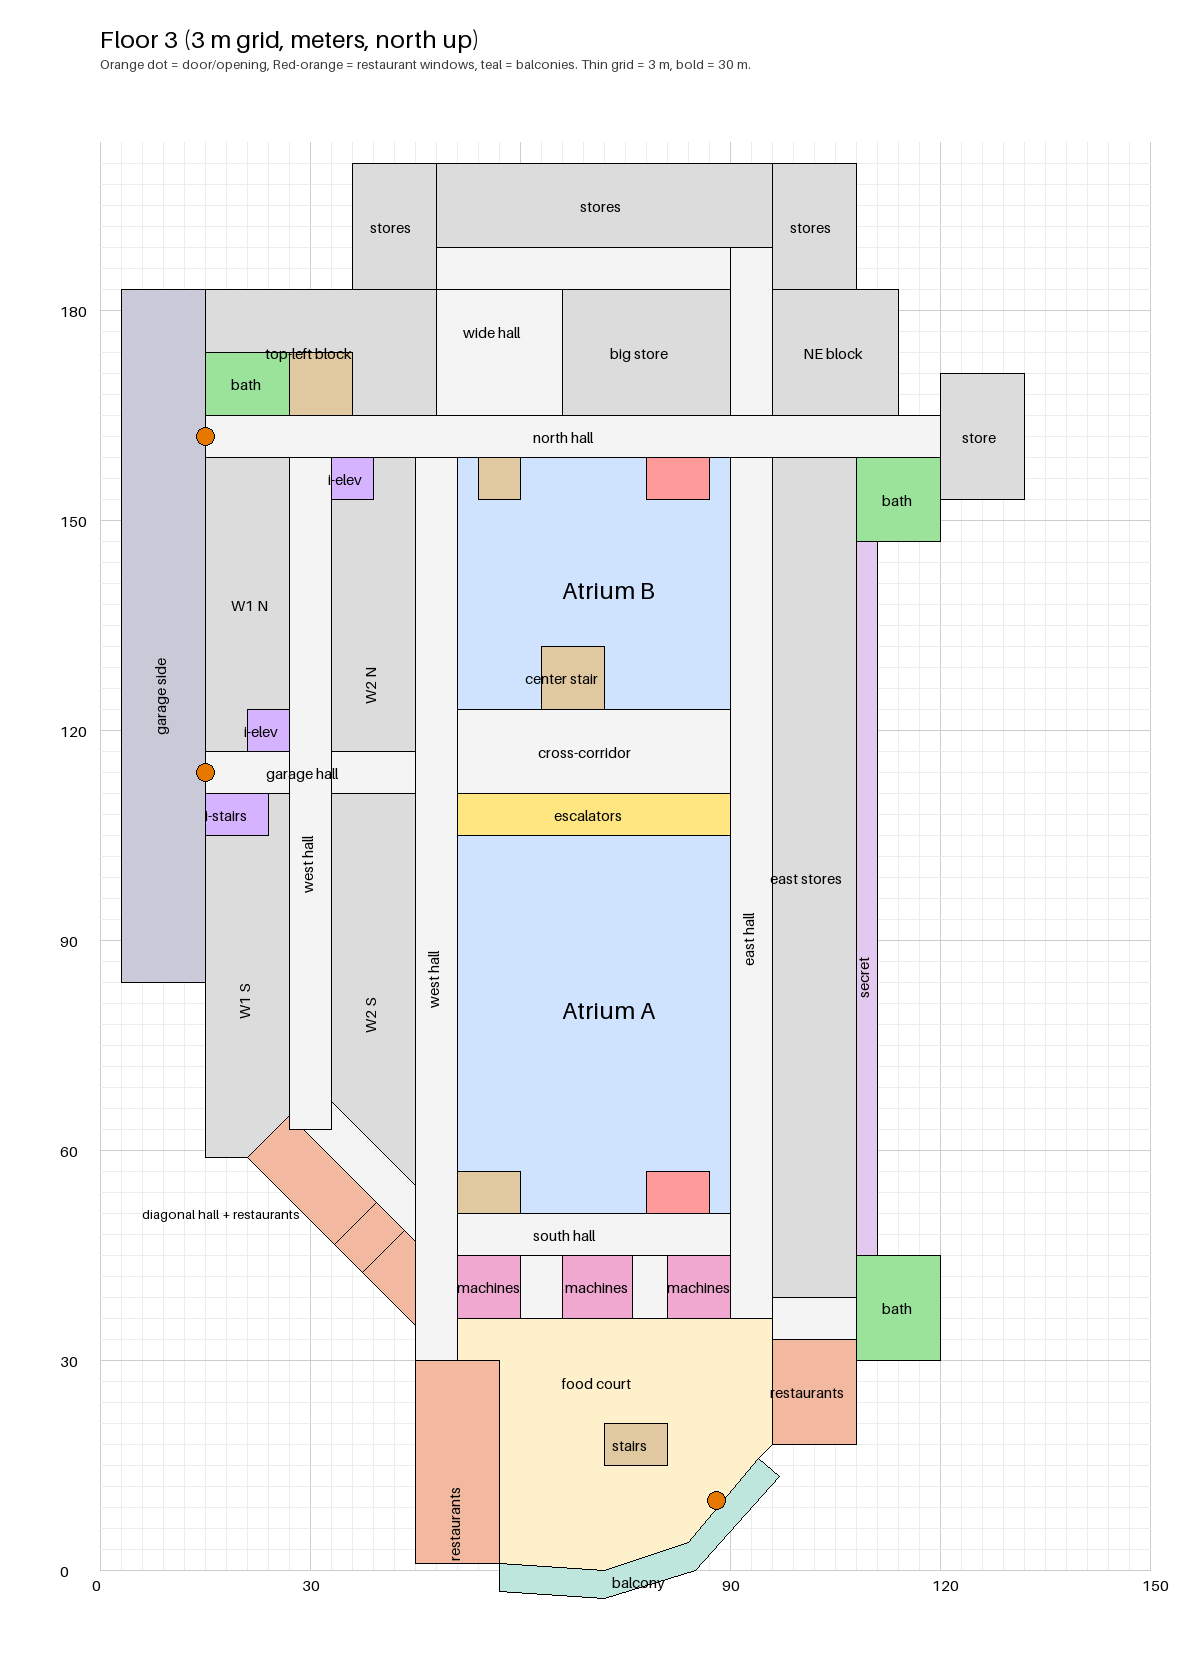
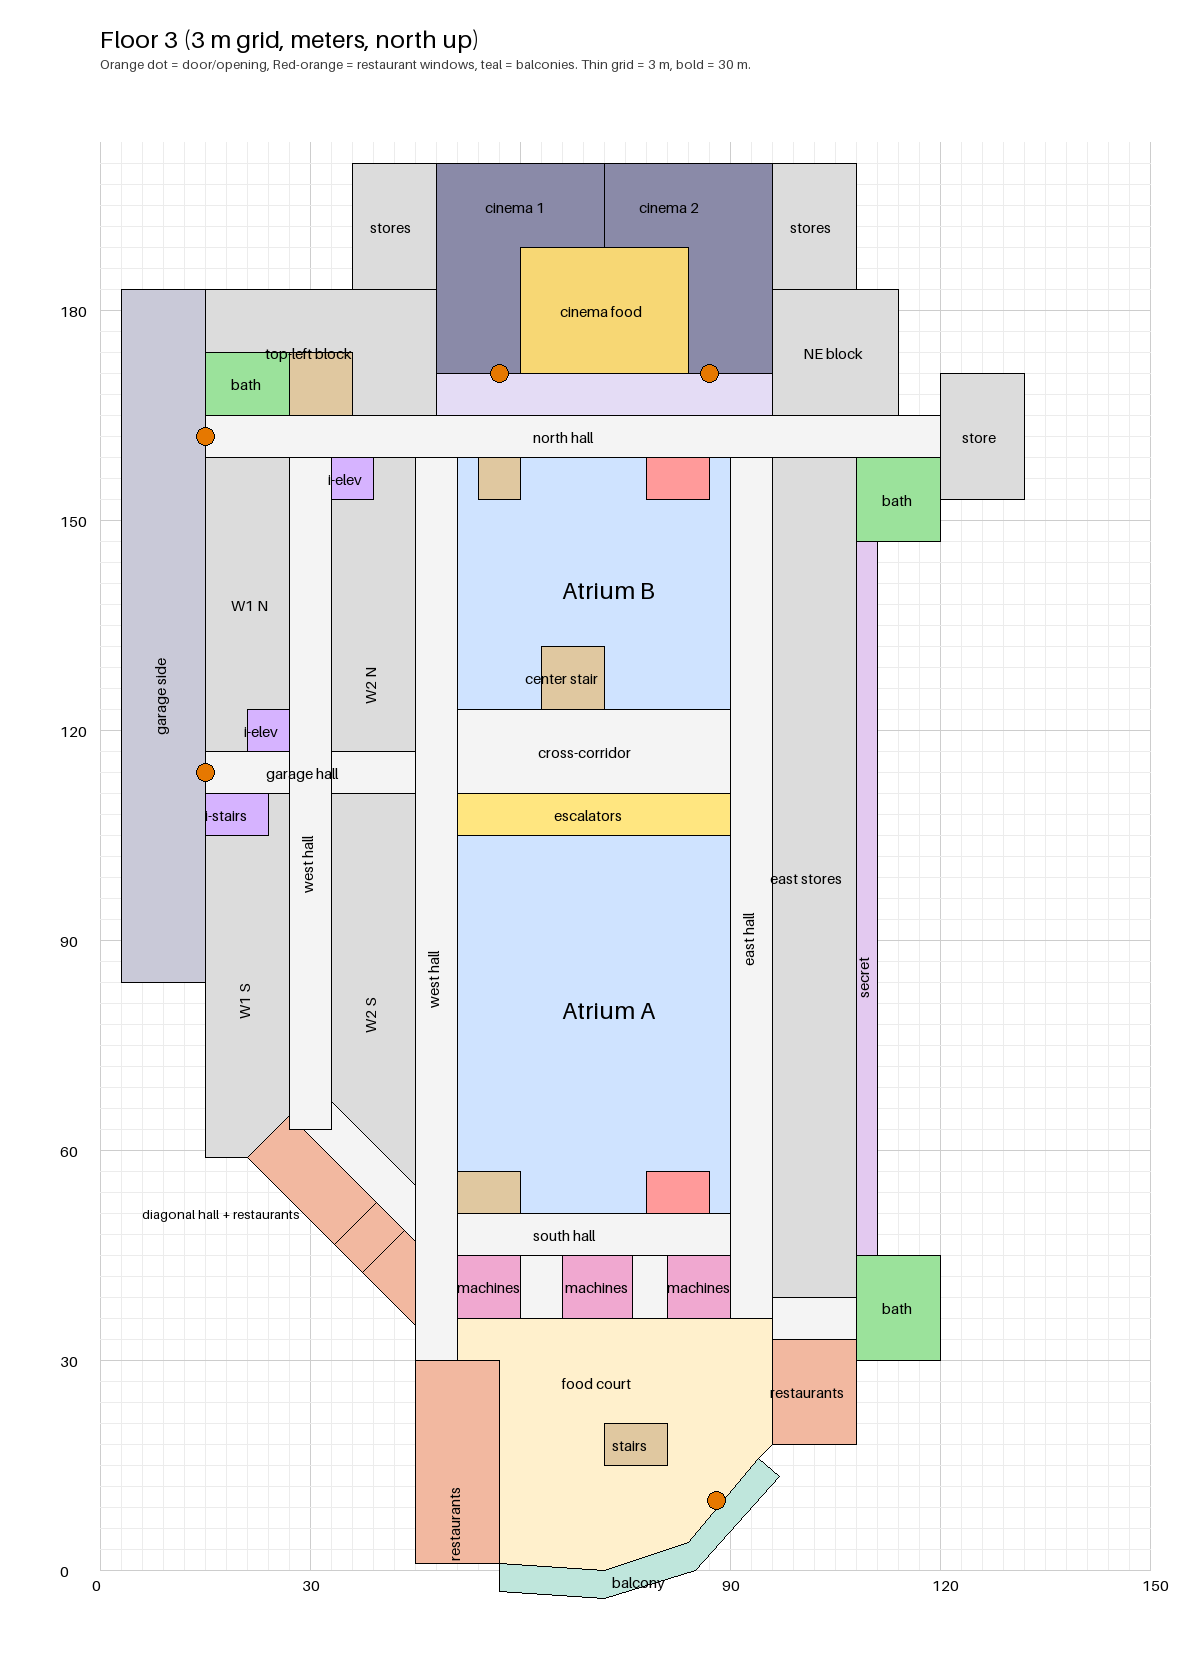
cinemas add in

Changed region(s): [[0.3392, 0.0929, 0.6475, 0.2476]]

diff --git a/docs/floorplans/build_floorplans.py b/docs/floorplans/build_floorplans.py
@@ -117,8 +117,8 @@ BALCONIES = [
 
 COLORS = {"void": "#cfe3ff", "hall": "#f4f4f4", "elevator": "#ff9a9a", "stairs": "#e0c8a0",
           "escalator": "#ffe680", "shop": "#dcdcdc", "bath": "#9be29b", "garage": "#c9c9d8",
-          "secret": "#e3c9f0", "intermittent": "#d6b3ff", "kiosk": "#f7d774", "machines": "#f0a8d0", "foodcourt": "#fff0cc", "restaurant": "#f2b8a0", "balcony": "#bfe6dc"}
-WALKABLE = {"void", "hall", "bath", "garage", "secret", "foodcourt", "balcony"}
+          "secret": "#e3c9f0", "intermittent": "#d6b3ff", "cinema_lobby": "#e4dcf5", "cinema": "#8a8aa8", "kiosk": "#f7d774", "machines": "#f0a8d0", "foodcourt": "#fff0cc", "restaurant": "#f2b8a0", "balcony": "#bfe6dc"}
+WALKABLE = {"cinema_lobby", "void", "hall", "bath", "garage", "secret", "foodcourt", "balcony"}
 
 
 def north_floor2(items):
@@ -147,6 +147,18 @@ def north_floor2(items):
     return out
 
 
+def north_cinema(items):
+    """Floors 3 and 4, north part (east of the top-left block up to the NE block): a cinema food station in the
+    middle with two wide cinemas on its sides, which also run behind it."""
+    drop = {"n_hall_up", "big_store", "n_hall_behind", "north_stores", "n_hall_down"}
+    out = [it for it in items if it[0] not in drop]
+    out.append(("cinema_lobby", "Cinema concourse (in front of the stores, the food station and the cinema entrances)", ("box", (48, 96, 165, 171)), "cinema_lobby"))
+    out.append(("cinema_food", "Cinema food stand (middle, wide counter faces the concourse)", ("box", (60, 84, 171, 189)), "kiosk"))
+    out.append(("cinema_1", "Cinema 1 (west of the food stand, and behind it)", ("poly", [(48, 171), (60, 171), (60, 189), (72, 189), (72, 201), (48, 201)]), "cinema"))
+    out.append(("cinema_2", "Cinema 2 (east of the food stand, and behind it)", ("poly", [(96, 171), (84, 171), (84, 189), (72, 189), (72, 201), (96, 201)]), "cinema"))
+    return out
+
+
 def floor_items(floor):
     """Boxes and polygons for one floor, as (id, label, shape, kind) with shape ('box', ...) or ('poly', ...)."""
     items = []
@@ -166,6 +178,8 @@ def floor_items(floor):
         items.append((i, l, ("box", (a, b, c, d)), k))
     if floor == 2:
         items = north_floor2(items)
+    if floor >= 3:
+        items = north_cinema(items)
     for i, l, p, k in POLYS:
         if i == "south_area" and floor > 1:
             l, k = "Food court (seating)", "foodcourt"
@@ -236,7 +250,7 @@ LABELS = {"atrium_b": "Atrium B", "atrium_a": "Atrium A", "cross_corridor": "cro
           "a_escalators": "escalators", "n_hall_up": "wide hall", "east_stores": "east stores", "ne_end_store": "store",
           "south_hall": "south hall", "south_shop_1": "shop", "south_shop_2": "shop", "south_shop_3": "shop",
           "east_hall": "east hall", "west_hall_inner": "west hall", "west_hall_outer": "west hall",
-          "hall_ew_garage": "garage hall", "int_elevator_w2n": "i-elev", "int_elevator_w1n": "i-elev", "int_stairs_w1s": "i-stairs", "balcony_south": "balcony", "balcony_side": "balcony"}
+          "hall_ew_garage": "garage hall", "cinema_food": "cinema food",  "int_elevator_w2n": "i-elev", "int_elevator_w1n": "i-elev", "int_stairs_w1s": "i-stairs", "balcony_south": "balcony", "balcony_side": "balcony"}
 VERTICAL = ("parking", "secret_hall", "east_hall", "west_hall_inner", "west_hall_outer", "west_2n", "west_2s")
 
 
@@ -306,6 +320,9 @@ def render(floor, items, doors):
             dr.text((px - 20, py - 4), "balcony", fill="black", font=f)
     dr.text(T(66, 28), "entrance lobby" if floor == 1 else "food court", fill="black", font=f)
     dr.text(T(6, 52), "diagonal hall + " + ("stores" if floor == 1 else "restaurants"), fill="black", font=fs)
+    if floor >= 3:
+        dr.text(T(55, 196), "cinema 1", fill="black", font=f)
+        dr.text(T(77, 196), "cinema 2", fill="black", font=f)
     for i, l, x, y in doors:
         px, py = T(x, y)
         purple = i in ("side_exit", "balcony_door_side")
@@ -323,6 +340,8 @@ def render(floor, items, doors):
 def build(floor):
     items = floor_items(floor)
     doors = DOORS_F1 if floor == 1 else DOORS_UP
+    if floor >= 3:
+        doors = doors + [("cinema_entrance_%d" % (n + 1), "Cinema %d entrance" % (n + 1), x, 171) for n, x in enumerate((57, 87))]
     if floor == 2:
         doors = doors + [("north_exit", "Possible exit at the north end of the narrow hall", 51, 201)]
     comps = check(items)

diff --git a/docs/floorplans/floor1_notes.md b/docs/floorplans/floor1_notes.md
@@ -149,3 +149,24 @@ New mechanic (Augusto): some elevators and stairs appear and disappear at fixed 
 - **Stairs, north end of W1 S** (x 15 to 24, y 105 to 111), reached from the garage hall.
 
 The sizes (6 m x 6 m elevators, 9 m x 6 m stairs, like the other stairs) and the exact spot along each edge are my choice. The plan shows where they can be; when they are present is a game-logic question, not decided.
+
+## Cinema (floors 3 and 4, north part)
+
+On floors 3 and 4 the north part, from the east side of the top-left block to the NE block, is a cinema (decided by Augusto). Floor 2 keeps its own north end and floor 1 the original layout. Reference photos of the real food stand: `reference/other photos/cinema-food-stand-*`.
+
+Left to right (x), behind a 6 m concourse:
+
+| x | What |
+|---|---|
+| 48 to 60 | **cinema 1**, replaces the store on that side (y 171 to 201) |
+| 60 to 84 | **cinema food stand**, 24 m wide (y 171 to 189) |
+| 84 to 96 | **cinema 2**, replaces the store on that side (y 171 to 201) |
+
+- **Cinemas** also run behind the stand (y 189 to 201, split at x 72). No stores are left on the sides.
+- **Entrances** (orange dots, y 171) are the doors in each cinema's south face, at x 57 and x 87, next to the stand.
+- **Concourse** (x 48 to 96, y 165 to 171): walkable strip along the north hall. It replaces the wide hall, the big store, the hall behind it and the hall beside the NE block.
+- The north wrap blocks (x 36 to 48 and x 96 to 108) stay as stores.
+
+From the photos (for the blockout, not in the plan): the stand is a long counter facing the concourse, with a back wall of menu screens, orange and blue finishes, queue posts in front, a ticket-kiosk station beside it, and a few steps up from the concourse floor. The stand is 24 m wide (Augusto: the real one is wider).
+
+My choices: the 24 m stand width, the 18 m depth, the door positions, the split between cinemas at x 72, and cinemas that are not connected to each other. Cinema interiors are not modeled.
